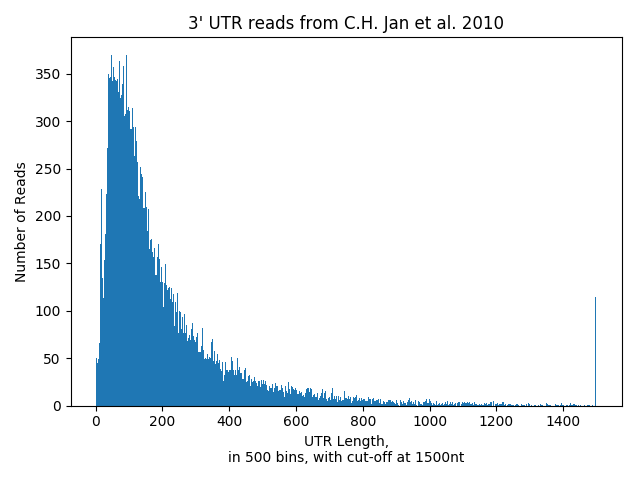
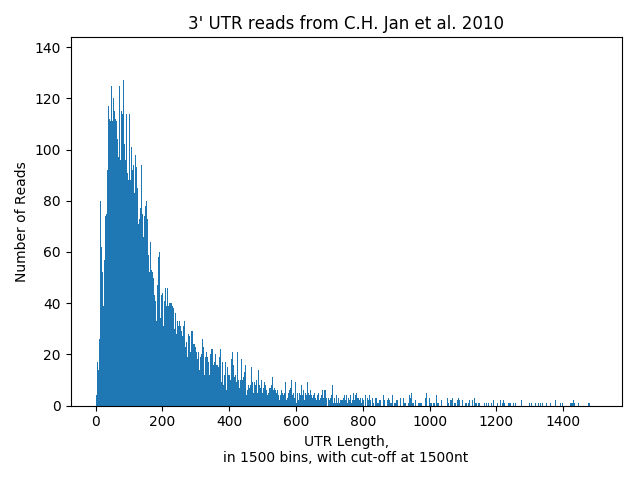
Fixed figures and set up

diff --git a/Parse_3UTR_Lengths.py b/Parse_3UTR_Lengths.py
@@ -103,4 +103,4 @@ if __name__ == '__main__':
     info_print_df(df, title="Max Cut UTRs")
 
     # Plot histogram
-    quick_plot_histo([df['UTR_length']], number_of_bins=500, maximum=1500)
+    quick_plot_histo([df['UTR_length']], number_of_bins=150, maximum=1500)
